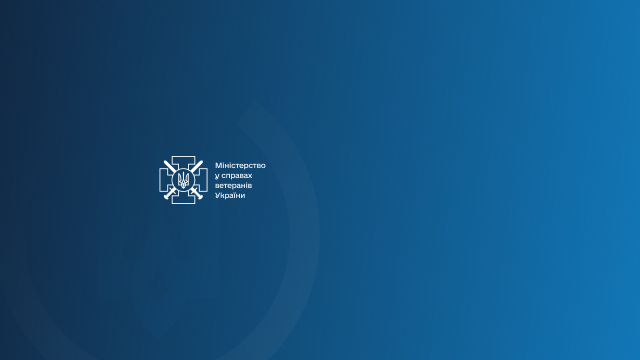
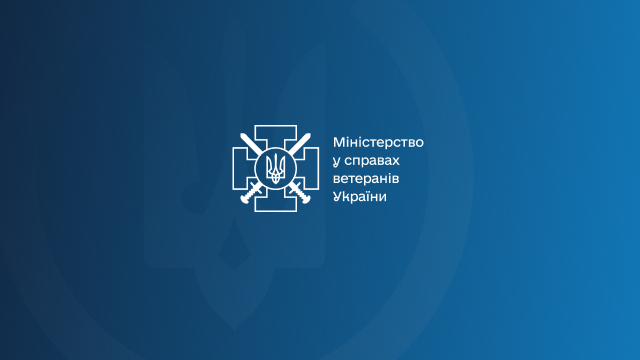
update information

Changed region(s): [[0.25, 0.3361, 0.6562, 0.5806], [0.4062, 0.5806, 0.4688, 0.6111]]

diff --git a/index.js b/index.js
@@ -1,4 +1,7 @@
 require("dotenv").config();
+
+const pilgi = require("./pіlgi");
+
 const { Bot, Keyboard, InputFile, session } = require("grammy");
 
 const bot = new Bot(process.env.BOT_API_KEY);
@@ -6,21 +9,43 @@ const bot = new Bot(process.env.BOT_API_KEY);
 function initial() {
   return { questionIndex: undefined, score: undefined };
 }
+
+let questions = [
+  "1. Думки та спогади, що повторюються і турбують, або нав’язливі картини стресового досвіду з минулого?",
+  "2. Повторювані, хвилюючі сновидіння про стресовий досвід?",
+  "3. Раптове відчуття ніби стресовий досвід знову трапляється (переживаєте ситуацію знову)?",
+  "4. Відчуття пригнічення, смутку, коли щось нагадувало вам стресову ситуацію з минулого?",
+  "5. Сильні фізичні реакції, коли щось нагадувало про стресовий досвід (наприклад, серцебиття, утруднене дихання,",
+  "6. Уникання думок або розмов про стресову ситуацію у минулому або уникання почуттів, пов’язаних з цією ситуацією?",
+  "7. Уникання певної діяльності або ситуацій, тому що вони нагадують вам стресову ситуацію з минулого?",
+  "8. Труднощі з пригадуванням важливих моментів стресового досвіду з минулого?",
+  "9. Сильні негативні переконання про себе, інших людей або навколишній світ (наприклад, «я поганий», «зі мною щось дуже не так», «нікому не можна довіряти», «світ – небезпечне місце»)?",
+  "10. Звинувачення себе або інших на рахунок стресового досвіду, або того, що сталося після нього?",
+  "11. Сильні негативні емоції, такі як страх, жах, злість, почуття провини або сором?",
+  "13. Відчуття віддаленості або відокремленості від інших?",
+  "14. Проблеми у переживанні позитивних емоцій (наприклад, незмога відчувати радість або любов до близької людини)?",
+  "15. Роздратування, спалахи гніву, агресивна поведінка?",
+  "16. Ризикова поведінка, яка може зашкодити?",
+  "17. Перебування «на взводі» або «на сторожі»?",
+  "18. Відчуття постійної напруги?",
+  "19. Труднощі із зосередженістю?",
+  "20. Проблеми із засинанням або нічні прокидання?",
+];
+
 bot.use(session({ initial }));
 
 function startWellnessTest(ctx) {
-  const questions = ["Питання 1", "Питання 2"];
-
   const keyboard = new Keyboard()
     .text("Зовсім ні – 0")
-    .row()
     .text("Трохи – 1")
     .row()
     .text("Помірно – 2")
-    .row()
     .text("Відчутно – 3")
     .row()
-    .text("Дуже – 4");
+    .text("Дуже – 4")
+    .row()
+    .text("Повернутись до головного меню")
+    .text("Допомога спеціаліста");
 
   ctx.reply(`${questions[0]}`, {
     reply_markup: { keyboard: keyboard.build(), resize_keyboard: true },
@@ -30,23 +55,24 @@ function startWellnessTest(ctx) {
 }
 
 const mainMenu = new Keyboard()
-  .text("Інформація про пільги")
+  .text("Гарантії та пільги")
   .row()
-  .text("Пройти тест на самопочуття")
+  .text("Пройти тест на посттравматичний стресовий розлад (ПТСР)")
   .row()
   .text("Термінова допомога спеціаліста");
 
 bot.command("start", async (ctx) => {
   console.log(`use start:`, ctx.message.from);
 
-  const localImagePath = "images/first.jpg";
+  const localImagePath = "images/header.jpg";
   await ctx.replyWithPhoto(new InputFile(localImagePath), {
-    caption: "Вітаю! Оберіть опцію:",
+    caption: `Привіт! Я твій вірний цифровий помічник у світі ветеранів. 
+Обери те, що тебе цікавить у меню: `,
     reply_markup: { keyboard: mainMenu.build(), resize_keyboard: true },
   });
 });
 
-bot.on("message:text", (ctx) => {
+bot.on("message:text", async (ctx) => {
   const text = ctx.message.text;
   console.log(`use text:`, ctx.message.from);
   console.log(`text:`, text);
@@ -54,11 +80,11 @@ bot.on("message:text", (ctx) => {
   const themeMenu = {
     reply_markup: {
       keyboard: new Keyboard()
-        .text("Тема1")
-        .text("Тема2")
+        .text("Медичні пільги")
+        .text("Реабілітація")
         .row()
-        .text("Тема3")
-        .text("Тема4")
+        .text("Освітні пільги")
+        .text("Забезпечення автомобілем та місцем для нього")
         .row()
         .text("Повернутись до головного меню")
         .build(),
@@ -67,29 +93,49 @@ bot.on("message:text", (ctx) => {
     },
   };
 
-  if (text === "Інформація про пільги") {
+  if (text === "Гарантії та пільги") {
     ctx.reply("Оберіть тему:", themeMenu);
-  } else if (text === "Тема1") {
-    ctx.reply("Інформація про Тему1", themeMenu);
-  } else if (text === "Тема2") {
-    ctx.reply("Інформація про Тему2", themeMenu);
-  } else if (text === "Тема3") {
-    ctx.reply("Інформація про Тему3", themeMenu);
-  } else if (text === "Тема4") {
-    ctx.reply("Інформація про Тема4", themeMenu);
-  } else if (text === "Пройти тест на самопочуття") {
+  } else if (text === "Медичні пільги") {
+    ctx.reply(pilgi.pilgi1, { parse_mode: "HTML" });
+  } else if (text === "Реабілітація") {
+    ctx.reply(pilgi.pilgi2, { parse_mode: "HTML" });
+  } else if (text === "Освітні пільги") {
+    ctx.reply(pilgi.pilgi3, { parse_mode: "HTML" });
+  } else if (text === "Забезпечення автомобілем та місцем для нього") {
+    ctx.reply(pilgi.pilgi4, { parse_mode: "HTML" });
+  } else if (
+    text === "Пройти тест на посттравматичний стресовий розлад (ПТСР)"
+  ) {
+    await ctx.reply(
+      `<b>Шкала самооцінки проявів посттравматичного стресового розладу (ПТСР). Методика PCL-5</b>
+      
+Нижче вказані реакції, які іноді бувають після пережитого стресу. Уважно прочитайте кожен пункт та виберіть відповідь, яка відображає, наскільки сильно вас турбувала зазначена проблема протягом останнього місяця.
+
+Всього буде <b>20</b> питань 
+      `,
+      { parse_mode: "HTML" }
+    );
+
     startWellnessTest(ctx);
-  } else if (text === "Термінова допомога спеціаліста") {
+  } else if (
+    text === "Термінова допомога спеціаліста" ||
+    text === "Допомога спеціаліста"
+  ) {
     ctx.reply("Надішліть, будь ласка, свій контактний номер:", {
       reply_markup: {
         keyboard: new Keyboard().requestContact("Надіслати контакт").build(),
         resize_keyboard: true,
       },
     });
+  } else if (text === "Повернутись до головного меню") {
+    ctx.reply("Обери те, що тебе цікавить у меню: ", {
+      reply_markup: {
+        keyboard: mainMenu.build(),
+        resize_keyboard: true,
+      },
+    });
   } else if (ctx.session?.questionIndex !== undefined) {
-    console.log(`ctx.session?.questionIndex:`, ctx.session?.questionIndex);
     const answerScore = parseInt(text.split(" – ")[1]);
-    const questions = ["Питання 1", "Питання 2"];
 
     ctx.session.score += answerScore;
     if (ctx.session?.questionIndex < questions.length - 1) {
@@ -98,51 +144,67 @@ bot.on("message:text", (ctx) => {
         reply_markup: {
           keyboard: new Keyboard()
             .text("Зовсім ні – 0")
-            .row()
             .text("Трохи – 1")
             .row()
             .text("Помірно – 2")
-            .row()
             .text("Відчутно – 3")
             .row()
             .text("Дуже – 4")
+            .row()
+            .text("Повернутись до головного меню")
+            .text("Допомога спеціаліста")
             .build(),
           resize_keyboard: true,
         },
       });
     } else {
-      ctx.reply(`Ваш результат: ${ctx.session.score}`, {
-        reply_markup: {
-          keyboard: new Keyboard()
-            .text("Повернутись до головного меню")
-            .build(),
-          resize_keyboard: true,
-        },
-      });
+      ctx.reply(
+        `Ваш результат:  ${ctx.session.score} балів
+      
+      
+За Вашими результатами ${
+          ctx.session.score < 35
+            ? "посттравматичний розлад малоймовірний."
+            : "є імовірність присутності посттравматичного розладу."
+        }
+      
+Важливо розуміти, що цей тест є доволі корисним у виявленні симптомів ПТСР, однак він не дає можливості діагностувати його. Це може зробити винятково спеціаліст з психічного здоров’я. 
+
+Якщо вас турбують окремі прояви з зазначених вище у сильній формі, рекомендуємо вам звернутися до психолога психотерапевти або ж лікаря психотерапевта.
+      `,
+        {
+          reply_markup: {
+            keyboard: new Keyboard()
+              .text("Повернутись до головного меню")
+              .text("Допомога спеціаліста")
+              .build(),
+            resize_keyboard: true,
+          },
+        }
+      );
       delete ctx.session.questionIndex;
       delete ctx.session.score;
     }
-  } else if (text === "Повернутись до головного меню") {
-    ctx.reply("Вітаю! Оберіть опцію:", {
-      reply_markup: {
-        keyboard: mainMenu.build(),
-        resize_keyboard: true,
-      },
-    });
   } else {
-    ctx.reply("Не розумію, виберіть щось з меню", {
-      reply_markup: {
-        keyboard: mainMenu.build(),
-        resize_keyboard: true,
-      },
-    });
+    ctx.reply(
+      "Вибачте, але я не розумію що ви маєте на увазі, виберіть щось з меню",
+      {
+        reply_markup: {
+          keyboard: mainMenu.build(),
+          resize_keyboard: true,
+        },
+      }
+    );
   }
 });
 
 bot.on("message:contact", (ctx) => {
-  return ctx.reply("Дякую за надсилання вашого контакту!", {
-    reply_markup: { keyboard: mainMenu.build(), resize_keyboard: true },
-  });
+  return ctx.reply(
+    "Дякую за надсилання вашого контакту! Наші фахівці зв'яжуться з вами якнайшвидше",
+    {
+      reply_markup: { keyboard: mainMenu.build(), resize_keyboard: true },
+    }
+  );
 });
 
 bot.start();

diff --git a/pіlgi.js b/pіlgi.js
@@ -1,0 +1,116 @@
+module.exports = {
+  pilgi1: `
+<b>Першочергові безоплатні ліки за рецептами лікарів</b>
+<a href="https://eveteran.gov.ua/benefits/pershochergovi-bezoplatni-liki-za-receptami-likariv">Посилання</a>
+
+<b>Доставка за висновком лікаря ліків додому</b>
+<a href="https://eveteran.gov.ua/benefits/dostavka-za-visnovkom-likarya-likiv-dodomu">Посилання</a>
+
+<b>Безоплатні ліки за рецептами лікарів</b>
+<a href="https://eveteran.gov.ua/benefits/zabezpechennya-bezoplatnimi-likami">Посилання</a>
+
+<b>Безоплатне першочергове зубопротезування (за винятком протезування з дорогоцінних металів)</b>
+<a href="https://eveteran.gov.ua/benefits/bezoplatne-pershochergove-zuboprotezuvannya-za-vinyatkom-protezuvannya-z-dorogocinnih-metaliv">Посилання</a>
+
+<b>Безоплатне обслуговування у закладах охорони здоров'я, до яких вони були прикріплені за попереднім місцем роботи, при виході на пенсію</b>
+<a href="https://eveteran.gov.ua/benefits/bezoplatne-obslugovuvannya-u-zakladah-ohoroni-zdorovya-do-yakih-voni-buli-prikripleni-za-poperednim-miscem-roboti-pri-vihodi-na-pensiyu">Посилання</a>
+
+<b>Безоплатне обслуговування у закладах охорони здоров'я, до яких вони були прикріплені за попереднім місцем роботи, після зміни місця роботи</b>
+<a href="https://eveteran.gov.ua/benefits/bezoplatne-obslugovuvannya-u-zakladah-ohoroni-zdorovya-do-yakih-voni-buli-prikripleni-za-poperednim-miscem-roboti-pislya-zmini-miscya-roboti">Посилання</a>
+
+<b>Щорічне медичне обстеження із залученням необхідних спеціалістів</b>
+<a href="https://eveteran.gov.ua/benefits/shchorichne-medichne-obstezhennya-iz-zaluchennyam-neobhidnih-specialistiv">Посилання</a>
+
+<b>Право на щорічне медичне обстеження із залученням необхідних спеціалістів</b>
+<a href="https://eveteran.gov.ua/benefits/pravo-na-shchorichne-medichne-obstezhennya-iz-zaluchennyam-neobhidnih-specialistiv">Посилання</a>
+
+<b>Позачергове безплатне лікування у стаціонарах, госпіталях, лікарнях</b>
+<a href="https://eveteran.gov.ua/benefits/pravo-na-shchorichne-medichne-obstezhennya-iz-zaluchennyam-neobhidnih-specialistiv">Посилання</a>
+
+<b>Першочергове обслуговування в лікувально-профілактичних закладах</b>
+<a href="https://eveteran.gov.ua/benefits/pershochergove-obslugovuvannya-v-likuvalno-profilaktichnih-zakladah">Посилання</a>
+`,
+
+  pilgi2: `
+<b>Безоплатне забезпечення санаторно-курортним лікуванням</b>
+<a href="https://eveteran.gov.ua/benefits/bezoplatne-zabezpechennya-sanatorno-kurortnim-likuvannyam">Посилання</a>
+
+<b>Безоплатне першочергове забезпечення санаторно-курортним лікуванням</b>
+<a href="https://eveteran.gov.ua/benefits/bezoplatne-pershochergove-zabezpechennya-sanatorno-kurortnim-likuvannyam">Посилання</a>
+
+<b>Безоплатне забезпечення санаторно-курортним лікуванням першочергово із числа позачерговиків</b>
+<a href="https://eveteran.gov.ua/benefits/bezoplatne-zabezpechennya-sanatorno-kurortnim-likuvannyam-pershochergovo-iz-chisla-pozachergovikiv">Посилання</a>
+
+<b>Грошова компенсація вартості путівки</b>
+<a href="https://eveteran.gov.ua/benefits/groshova-kompensaciya-vartosti-putivki">Посилання</a>
+
+<b>Компенсація вартості самостійного санаторно-курортного лікування</b>
+<a href="https://eveteran.gov.ua/benefits/kompensaciya-vartosti-samostijnogo-sanatorno-kurortnogo-likuvannya">Посилання</a>
+
+<b>Компенсація вартості проїзду до санаторно-курортного закладу і назад</b>
+<a href="https://eveteran.gov.ua/benefits/kompensaciya-vartosti-proyizdu-do-sanatorno-kurortnogo-zakladu-i-nazad">Посилання</a>
+
+<b>Безоплатне забезпечення іншими протезами і протезно-ортопедичними виробами</b>
+<a href="https://eveteran.gov.ua/benefits/bezplatne-zabezpechennya-inshimi-protezami-i-protezno-ortopedichnimi-virobami">Посилання</a>
+`,
+
+  pilgi3: `
+<b>Надання переважного права на вступ до закладів вищої, фахової передвищої освіти</b>
+<a href="https://eveteran.gov.ua/benefits/nadannya-perevazhnogo-prava-na-vstup-do-zakladiv-vishchoyi-fahovoyi-peredvishchoyi-osviti">Посилання</a>
+
+<b>Надання права на позаконкурсний вступ до закладів професійної (професійно-технічної) освіти</b>
+<a href="https://eveteran.gov.ua/benefits/nadannya-prava-na-pozakonkursnij-vstup-do-zakladiv-profesijnoyi-profesijno-tehnichnoyi-osviti">Посилання</a>
+
+<b>Повна або часткова оплата навчання за рахунок коштів державного та місцевих бюджетів</b>
+<a href="https://eveteran.gov.ua/benefits/derzhavna-cilova-pidtrimka">Посилання</a>
+
+<b>Пільговий довгостроковий кредит для здобуття освіти</b>
+<a href="https://eveteran.gov.ua/benefits/pilgovij-dovgostrokovij-kredit-dlya-zdobuttya-osviti">Посилання</a>
+
+<b>Соціальна стипендія</b>
+<a href="https://eveteran.gov.ua/benefits/socialna-stipendiya">Посилання</a>
+
+<b>Першочергове переведення здобувачів освіти на навчання на місцях державного (регіонального) замовлення</b>
+<a href="https://eveteran.gov.ua/benefits/pershochergove-perevedennya-zdobuvachiv-osviti-na-navchannya-na-miscyah-derzhavnogo-regionalnogo-zamovlennya">Посилання</a>
+
+<b>Безоплатне проживання в гуртожитку</b>
+<a href="https://eveteran.gov.ua/benefits/bezoplatne-prozhivannya-v-gurtozhitku">Посилання</a>
+
+<b>Безоплатний доступ до мережі Інтернет, систем баз даних в закладах освіти</b>
+<a href="https://eveteran.gov.ua/benefits/bezoplatnij-dostup-do-merezhi-internet-sistem-baz-danih-v-zakladah-osviti">Посилання</a>
+
+<b>Безоплатне забезпечення підручниками</b>
+<a href="https://eveteran.gov.ua/benefits/bezoplatne-zabezpechennya-pidruchnikami">Посилання</a>
+`,
+  pilgi4: `
+<b>Першочерговість вступу до кооперативів по будівництву та експлуатації колективних гаражів</b>
+<a href="https://eveteran.gov.ua/benefits/pershochergovist-vstupu-do-kooperativiv-po-budivnictvu-ta-ekspluataciyi-kolektivnih-garazhiv">Посилання</a>
+
+<b>Звільнення від орендної плати за нежилі приміщення, що орендуються особами з інвалідністю внаслідок війни під гаражі для спеціальних засобів пересування (автомобілів, мотоколясок, велоколясок тощо)</b>
+<a href="https://eveteran.gov.ua/benefits/zvilnennya-vid-orendnoyi-plati-za-nezhili-primishchennya-shcho-orenduyutsya-osobami-z-invalidnistyu-vnaslidok-vijni-pid-garazhi-dlya-specialnih-zasobiv-peresuvannya-avtomobiliv-motokolyasok-velokolyasok-toshcho">Посилання</a>
+
+<b>Безоплатне надання для спеціальних засобів пересування (автомобілів, мотоколясок, велоколясок тощо) гаражів-стоянок незалежно від їх форми власності.</b>
+<a href="https://eveteran.gov.ua/benefits/bezoplatne-nadannya-dlya-specialnih-zasobiv-peresuvannya-avtomobiliv-motokolyasok-velokolyasok-toshcho-garazhiv-stoyanok-nezalezhno-vid-yih-formi-vlasnosti">Посилання</a>
+
+<b>Першочергове право на вступ до кооперативів по будівництву</b>
+<a href="https://eveteran.gov.ua/benefits/pershochergove-pravo-na-vstup-do-kooperativiv-po-budivnictvu-ta-ekspluataciyi-stoyanok-dlya-tz">Посилання</a>
+
+<b>Позачергове безоплатне забезпечення автомобілем</b>
+<a href="https://eveteran.gov.ua/benefits/pozachergove-bezoplatne-zabezpechennya-avtomobilem">Посилання</a>
+
+<b>Позачергове безоплатне забезпечення автомобілем - заміна на новий</b>
+<a href="https://eveteran.gov.ua/benefits/pozachergove-bezoplatne-zabezpechennya-avtomobilem-zamina-na-novij">Посилання</a>
+
+<b>Першочергове безоплатне забезпечення автомобілем на термін експлуатації до десяти років</b>
+<a href="https://eveteran.gov.ua/benefits/pershochergove-bezoplatne-zabezpechennya-avtomobilem-na-termin-ekspluataciyi-do-desyati-rokiv">Посилання</a>
+
+<b>Першочергове безоплатне забезпечення автомобілем - заміна на новий</b>
+<a href="https://eveteran.gov.ua/benefits/pershochergove-bezoplatne-zabezpechennya-avtomobilem-zamina-na-novij">Посилання</a>
+
+<b>Безоплатне забезпечення автомобілем першочергово із числа позачерговиків</b>
+<a href="https://eveteran.gov.ua/benefits/bezoplatne-zabezpechennya-avtomobilem-pershochergovo-iz-chisla-pozachergovikiv">Посилання</a>
+
+<b>Щомісячна виплата грошової компенсації витрат на автомобільне паливо з розрахунку 50 літрів високооктанового бензину на місяць відповідно до діючих цін на паливо</b>
+<a href="https://eveteran.gov.ua/benefits/shchomisyachna-viplata-groshovoyi-kompensaciyi-vitrat-na-avtomobilne-palivo-z-rozrahunku-50-litriv-visokooktanovogo-benzinu-na-misyac-vidpovidno-do-diyuchih-cin-na-palivo">Посилання</a>
+`,
+};
